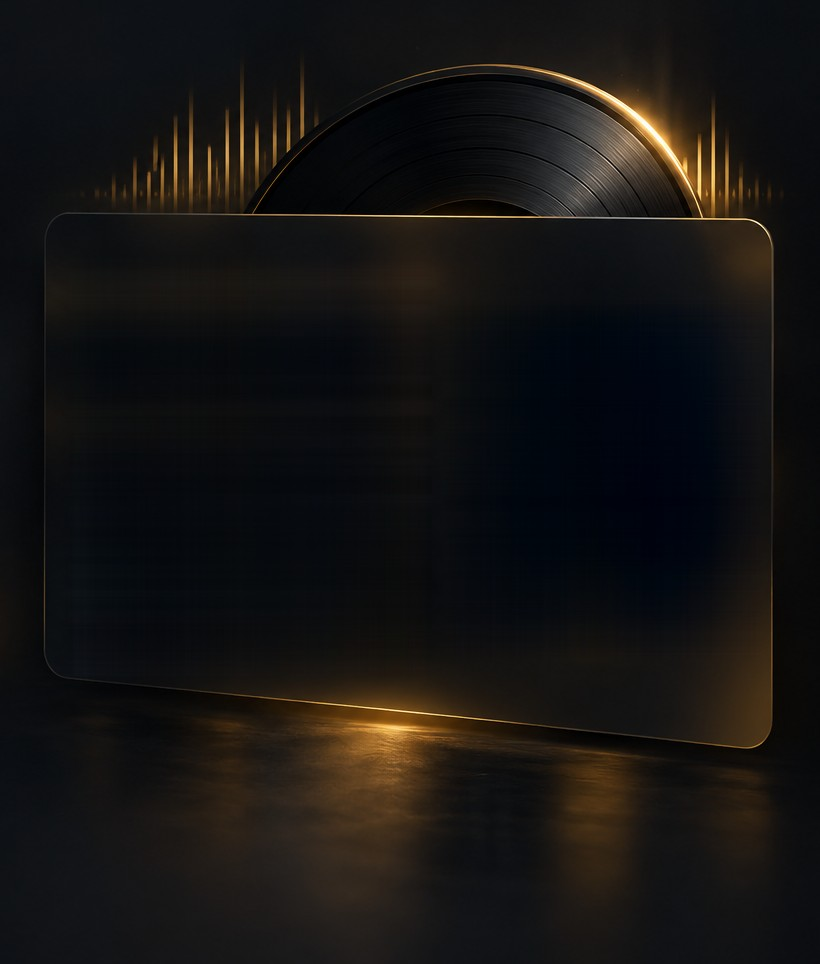
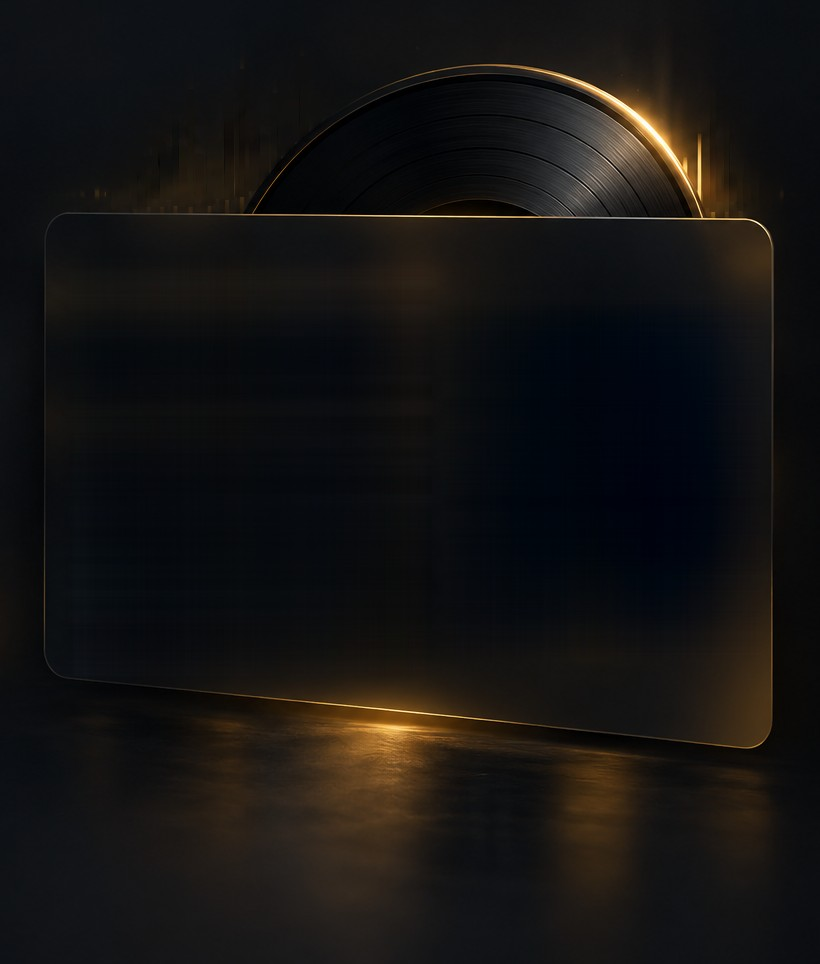
Homepage Soundtrack: the song starts, and its gold is the brand's
Ed: "Create a beautiful and elegant animation for The Soundtrack section. Make sure
you're using Maketzo brand colors. The yellow is off brand."

The equaliser is lifted out of Ed's graphic onto its own layer (eq.png, cut by
tools/site-preview/make-stage-06.js, record and rim masked out) and added back with
plus-lighter, so at rest the scene matches the graphic (mean difference 0.5 of 255 against prod). Once per
visit, when the player is half on screen: the bars rise out from the record on the
beat while the record's hot edge glows with them, then the play button's ring and
the cue's note invite the press. While the song really plays the bars dance and the
edge breathes; pause and they rest. Nothing is hidden at any point. Reduce motion
keeps the clock: the edge glows, the ring lights in place, nothing moves. Phones
show the ring only (no backdrop there). Compositor only: dancing adds nothing
measurable over the page's idle.

Gold: MUSIC. and the cue's song title take the title gradient (the .section-title em
rule list), the tag line and player eyebrow gold-400, marks and the progress bar
gold-500, the play button the brand button gradient; the hand-picked #F0C850 glows
are brand gold-500.

Changed region(s): [[0.122, 0.0934, 0.3963, 0.2178], [0.8537, 0.1245, 0.9451, 0.2178]]

diff --git a/index.html b/index.html
@@ -586,6 +586,8 @@ body:has(.sticky-bar.visible) { padding-bottom: 80px; }
   font-weight: 400;
 }
 .section-title em,
+.sp-title em,
+.sp-cue em,
 .wyg-w,
 .trp-run--if .trp-v {
   font-style: normal;
@@ -2404,21 +2406,20 @@ body.hero-loaded .hero-proof    { opacity: 1; transform: translateY(0); transiti
 }
 /* the soundtrack (index section 06), built to Ed's graphic (tools/site-preview/mock-section-06.png): copy at left;
    at right a glass player slab in perspective, a satin vinyl record and two equaliser groups behind it, a glossy floor
-   under it. The bars dance only while the music plays. */
+   under it. */
 .section.section-dark.sp-section { overflow: hidden; background: #0e1012; }
 .sp-inner { position: relative; max-width: 1536px; padding: 0 0 0 min(5.2vw, 80px); display: grid; grid-template-columns: minmax(0, 630fr) minmax(0, 826fr); gap: 0; align-items: center; }
 .sp-copy { padding-right: 24px; }
 .sp-inner > .section-eyebrow { grid-column: 1 / -1; }
 .sp-copy { min-width: 0; }
 .sp-title { margin: 0 0 30px; font-family: var(--mk-font-display); font-weight: 400; font-size: clamp(2.6rem, 5.3vw, 5.2rem); line-height: .95; letter-spacing: var(--mk-track-display); text-transform: uppercase; color: var(--mk-text-primary); }
-.sp-title em { font-style: normal; color: var(--mk-gold-300); text-shadow: 0 0 28px rgba(240,200,80,.25); }
 .sp-lede { margin: 0 0 24px; font-size: clamp(1.15rem, 1.75vw, 1.65rem); line-height: 1.4; color: var(--mk-text-primary); }
 .sp-body { margin: 0 0 18px; font-size: clamp(1rem, 1.3vw, 1.25rem); line-height: 1.6; color: var(--mk-text-secondary); }
-.sp-cue { display: flex; align-items: center; gap: 26px; margin: 30px 0; padding: 22px 28px; border-radius: 16px; border: 1px solid rgba(240,200,80,.35); border-left: 3px solid var(--mk-gold-300); background: linear-gradient(90deg, rgba(212,175,55,.12), rgba(212,175,55,.02) 70%); box-shadow: 0 0 24px rgba(240,200,80,.08); }
-.sp-cue svg { flex: none; width: 36px; height: 36px; fill: none; stroke: var(--mk-gold-300); stroke-width: 1.8; stroke-linecap: round; stroke-linejoin: round; filter: drop-shadow(0 0 8px rgba(240,200,80,.35)); }
+.sp-cue { display: flex; align-items: center; gap: 26px; margin: 30px 0; padding: 22px 28px; border-radius: 16px; border: 1px solid rgba(212,175,55,.35); border-left: 3px solid var(--mk-gold-500); background: linear-gradient(90deg, rgba(212,175,55,.12), rgba(212,175,55,.02) 70%); box-shadow: 0 0 24px rgba(212,175,55,.08); }
+.sp-cue svg { flex: none; width: 36px; height: 36px; fill: none; stroke: var(--mk-gold-500); stroke-width: 1.8; stroke-linecap: round; stroke-linejoin: round; filter: drop-shadow(0 0 8px rgba(212,175,55,.35)); }
 .sp-cue p { margin: 0; font-size: clamp(1rem, 1.25vw, 1.2rem); line-height: 1.55; color: var(--mk-text-primary); }
-.sp-cue em { font-style: normal; font-weight: 600; color: var(--mk-gold-300); }
-.sp-tag { margin: 34px 0 0; padding-top: 30px; border-top: 1px solid rgba(212,175,55,.3); font-family: var(--mk-font-mono); font-size: 14px; letter-spacing: .26em; color: var(--mk-gold-300); }
+.sp-cue em { font-weight: 600; }
+.sp-tag { margin: 34px 0 0; padding-top: 30px; border-top: 1px solid rgba(212,175,55,.3); font-family: var(--mk-font-mono); font-size: 14px; letter-spacing: .26em; color: var(--mk-gold-400); }
 /* the player: the shared root (play, seek, time, analytics), its own frame removed */
 .mk-audio-player.sp-player { position: relative; padding: 0; border-radius: 0; background: none; box-shadow: none; }
 .sp-player .sp-list { display: none; }
@@ -2429,35 +2430,72 @@ body.hero-loaded .hero-proof    { opacity: 1; transform: translateY(0); transiti
   -webkit-mask-image: linear-gradient(90deg, transparent, #000 7%, #000 94%, transparent), linear-gradient(180deg, transparent, #000 5%, #000 90%, transparent); -webkit-mask-composite: source-in;
   mask-image: linear-gradient(90deg, transparent, #000 7%, #000 94%, transparent), linear-gradient(180deg, transparent, #000 5%, #000 90%, transparent); mask-composite: intersect; }
 .sp-card { position: absolute; left: 0; top: 0; width: 727px; height: 466px; transform-origin: 0 0; transform: matrix3d(0.87480763, -0.02706622, 0, -0.00016128, -0.00227719, 0.99799714, 0, -0.00000295, 0, 0, 1, 0, 45.5, 213, 0, 1); }
-.sp-art { position: absolute; left: 33px; top: 51px; width: 368px; height: 364px; border-radius: 14px; overflow: hidden; border: 1px solid rgba(240,200,80,.32); box-shadow: 0 0 0 1px rgba(0,0,0,.55), 0 0 18px rgba(240,200,80,.12); }
+.sp-art { position: absolute; left: 33px; top: 51px; width: 368px; height: 364px; border-radius: 14px; overflow: hidden; border: 1px solid rgba(212,175,55,.32); box-shadow: 0 0 0 1px rgba(0,0,0,.55), 0 0 18px rgba(212,175,55,.12); }
 .sp-art img { display: block; width: 100%; height: 100%; object-fit: cover; transition: transform var(--mk-dur-snap) var(--mk-ease-out), filter var(--mk-dur-snap); }
 .sp-art { display: block; transition: border-color var(--mk-dur-snap), box-shadow var(--mk-dur-snap); }
-.sp-art:hover { border-color: rgba(240,200,80,.7); box-shadow: 0 0 0 1px rgba(0,0,0,.55), 0 0 26px rgba(240,200,80,.35); }
+.sp-art:hover { border-color: rgba(212,175,55,.7); box-shadow: 0 0 0 1px rgba(0,0,0,.55), 0 0 26px rgba(212,175,55,.35); }
 .sp-art:hover img { transform: scale(1.03); filter: brightness(1.08); }
 .sp-art:focus-visible { outline: 2px solid var(--mk-brand); outline-offset: 3px; }
 .sp-main { position: absolute; left: 439px; top: 90px; width: 258px; }
-.sp-player .sp-k { margin: 0 0 18px; white-space: nowrap; font-size: 12px; letter-spacing: .16em; color: var(--mk-gold-300); }
+.sp-player .sp-k { margin: 0 0 18px; white-space: nowrap; font-size: 12px; letter-spacing: .16em; color: var(--mk-gold-400); }
 .sp-player .sp-name { max-width: 195px; margin: 0; font-family: var(--mk-font-sans); font-weight: 600; font-size: 29px; line-height: 1.13; letter-spacing: -.015em; text-transform: none; color: var(--mk-text-primary); }
 .sp-sub { margin: 14px 0 0; white-space: nowrap; font-family: var(--mk-font-mono); font-size: 11.5px; letter-spacing: .12em; color: #8d8a84; }
 .sp-player .sp-bar { margin-top: 28px; height: 4px; border-radius: 4px; background: rgba(255,255,255,.16); cursor: pointer; }
-.sp-player .sp-bar .mk-audio-player__progress { position: relative; height: 100%; border-radius: 4px; background: var(--mk-gold-300); box-shadow: 0 0 10px rgba(240,200,80,.5); }
-.sp-player .sp-bar .mk-audio-player__progress::after { content: ""; position: absolute; right: -6px; top: 50%; width: 12px; height: 12px; margin-top: -6px; border-radius: 50%; background: var(--mk-gold-300); box-shadow: 0 0 10px rgba(240,200,80,.7); }
+.sp-player .sp-bar .mk-audio-player__progress { position: relative; height: 100%; border-radius: 4px; background: var(--mk-gold-500); box-shadow: 0 0 10px rgba(212,175,55,.5); }
+.sp-player .sp-bar .mk-audio-player__progress::after { content: ""; position: absolute; right: -6px; top: 50%; width: 12px; height: 12px; margin-top: -6px; border-radius: 50%; background: var(--mk-gold-500); box-shadow: 0 0 10px rgba(212,175,55,.7); }
 .sp-time { display: flex; justify-content: space-between; margin-top: 12px; font-family: var(--mk-font-sans); font-size: 13px; color: #9a968f; }
 .sp-controls { display: flex; align-items: center; justify-content: center; gap: 30px; margin-top: 10px; }
-.sp-player .mk-audio-player__play { width: 78px; height: 78px; background: radial-gradient(circle at 40% 35%, #f8dc84, var(--mk-gold-300) 60%, #c9a43c); color: #0b0b0b; box-shadow: 0 0 30px rgba(240,200,80,.45), inset 0 1px 0 rgba(255,255,255,.35); }
+.sp-player .mk-audio-player__play { width: 78px; height: 78px; background: var(--mk-gold-gradient); color: #0b0b0b; box-shadow: 0 0 30px rgba(212,175,55,.35), inset 0 1px 0 rgba(255,255,255,.35); }
 .sp-player .mk-audio-player__play svg { width: 28px; height: 28px; }
 .sp-skip { display: grid; place-items: center; width: 40px; height: 40px; border: 0; border-radius: 50%; background: none; color: var(--mk-text-primary); cursor: pointer; transition: color var(--mk-dur-snap), transform var(--mk-dur-snap) var(--mk-ease-out); }
 .sp-skip:hover { color: var(--mk-gold-300); transform: scale(1.1); }
 .sp-skip:focus-visible { outline: 2px solid var(--mk-brand); outline-offset: 3px; }
 .sp-skip svg { width: 22px; height: 22px; fill: currentColor; }
+/* The song starts (Ed, 2026-10-17: "a beautiful and elegant animation for The Soundtrack section"). The equaliser is
+   lifted out of the graphic onto its own layer (eq.png, cut by tools/site-preview/make-stage-06.js) and added back with
+   plus-lighter, so at rest the scene is the graphic exactly. Once per visit the bars rise out from the record on the
+   beat while the record's hot edge glows with them, then the play button and the cue's note invite the press. While
+   the song really plays, the bars dance and the edge breathes; pause and they rest. Nothing is ever hidden. */
+.sp-eq { position: absolute; left: 100px; top: 40px; width: 700px; height: 175px; background: url("assets/soundtrack/eq.png") 0 0 / 700px 175px no-repeat; mix-blend-mode: plus-lighter; pointer-events: none; }
+.sp-eq.is-split { background: none; }
+.sp-eq i { position: absolute; left: calc(var(--l) * 1px); top: calc(var(--t) * 1px); width: calc(var(--w) * 1px); height: calc(var(--h) * 1px); background: url("assets/soundtrack/eq.png") calc(var(--l) * -1px) calc(var(--t) * -1px) / 700px 175px no-repeat; transform-origin: 50% 100%; }
+.sp-glow { position: absolute; left: 495px; top: 10px; width: 290px; height: 210px; border-radius: 50%; background: radial-gradient(closest-side, rgba(229,197,114,.5), rgba(212,175,55,.15) 55%, rgba(212,175,55,0)); mix-blend-mode: plus-lighter; opacity: 0; pointer-events: none; }
+.sp-player .mk-audio-player__play { position: relative; }
+.sp-player .mk-audio-player__play::after { content: ""; position: absolute; inset: 0; border-radius: 50%; border: 2px solid rgba(229,197,114,.85); opacity: 0; pointer-events: none; }
+.sp-go .sp-eq i { animation: spEqA 3.2s ease-in-out calc(var(--d) * 45ms) both; }
+.sp-go .sp-eq i:nth-child(3n+2) { animation-name: spEqB; }
+.sp-go .sp-eq i:nth-child(3n) { animation-name: spEqC; }
+.sp-go .sp-glow { animation: spGlowIn 3.6s ease-in-out both; }
+.sp-go .sp-player .mk-audio-player__play::after { animation: spInvite 1.1s cubic-bezier(.2, .7, .3, 1) 3.3s 2; }
+.sp-go .sp-cue svg { animation: spNote 1.1s ease-in-out 3.3s 2; }
+.sp-section .sp-player.is-playing .sp-eq i { animation: spEqPlay .5s ease-in-out calc(var(--d) * -97ms) infinite alternate; }
+.sp-section .sp-player.is-playing .sp-eq i:nth-child(3n+2) { animation-duration: .38s; }
+.sp-section .sp-player.is-playing .sp-eq i:nth-child(3n) { animation-duration: .62s; }
+.sp-section .sp-player.is-playing .sp-glow { animation: spGlowPlay 1.25s ease-in-out infinite alternate; }
+@keyframes spEqA { 0%, 100% { transform: none; } 14% { transform: scaleY(1.32); } 28% { transform: scaleY(.72); } 42% { transform: scaleY(1.22); } 56% { transform: scaleY(.84); } 70% { transform: scaleY(1.1); } 84% { transform: scaleY(.95); } }
+@keyframes spEqB { 0%, 100% { transform: none; } 14% { transform: scaleY(1.18); } 28% { transform: scaleY(.8); } 42% { transform: scaleY(1.34); } 56% { transform: scaleY(.88); } 70% { transform: scaleY(1.06); } 84% { transform: scaleY(.97); } }
+@keyframes spEqC { 0%, 100% { transform: none; } 14% { transform: scaleY(1.26); } 28% { transform: scaleY(.86); } 42% { transform: scaleY(1.14); } 56% { transform: scaleY(.78); } 70% { transform: scaleY(1.14); } 84% { transform: scaleY(.94); } }
+@keyframes spEqPlay { from { transform: scaleY(.62); } to { transform: scaleY(1.28); } }
+@keyframes spGlowIn { 0%, 100% { opacity: 0; } 14% { opacity: .6; } 28% { opacity: .22; } 42% { opacity: .55; } 56% { opacity: .25; } 70% { opacity: .4; } }
+@keyframes spGlowPlay { from { opacity: .12; } to { opacity: .42; } }
+@keyframes spInvite { from { opacity: .9; transform: none; } to { opacity: 0; transform: scale(1.75); } }
+@keyframes spNote { 0%, 100% { transform: none; } 30% { transform: translateY(-3px) rotate(-6deg) scale(1.08); } 60% { transform: rotate(3deg); } }
+/* reduce motion: the same clock, nothing moves; the edge still glows on the beat and the button's ring lights in place */
+@media (prefers-reduced-motion: reduce) {
+  .sp-go .sp-eq i, .sp-section .sp-player.is-playing .sp-eq i, .sp-go .sp-cue svg, .sp-section .sp-player.is-playing .sp-glow { animation: none; }
+  .sp-player .mk-audio-player__play::after { transform: scale(1.14); }
+  .sp-go .sp-player .mk-audio-player__play::after { animation-name: spInviteStill; animation-timing-function: ease-in-out; }
+}
+@keyframes spInviteStill { 0%, 100% { opacity: 0; } 45% { opacity: .85; } }
 /* phones: the card stands upright on its own, no backdrop */
 @media (max-width: 900px) {
+  .sp-eq, .sp-glow { display: none; }
   .sp-inner { grid-template-columns: 1fr; gap: 16px; padding: 0 24px; }
   .sp-copy { padding-right: 0; }
   .sp-scene-box { aspect-ratio: auto; margin-top: 28px; }
   .sp-scene { position: relative; width: auto; height: auto; transform: none; }
   .sp-scene::before { display: none; }
-  .sp-card { position: relative; width: auto; height: auto; max-width: 440px; margin: 0 auto; transform: none; display: grid; gap: 22px; padding: 24px; border-radius: 22px; background: linear-gradient(165deg, #23211d, #121213 45%, #0d0d0e); border: 1px solid rgba(240,200,80,.3); box-shadow: inset 0 -1px 0 rgba(255,210,110,.45), 0 20px 50px rgba(0,0,0,.6), 0 0 40px rgba(240,200,80,.1); }
+  .sp-card { position: relative; width: auto; height: auto; max-width: 440px; margin: 0 auto; transform: none; display: grid; gap: 22px; padding: 24px; border-radius: 22px; background: linear-gradient(165deg, #23211d, #121213 45%, #0d0d0e); border: 1px solid rgba(212,175,55,.3); box-shadow: inset 0 -1px 0 rgba(255,210,110,.45), 0 20px 50px rgba(0,0,0,.6), 0 0 40px rgba(212,175,55,.1); }
   .sp-art { position: relative; left: auto; top: auto; width: 100%; height: auto; aspect-ratio: 1; }
   .sp-main { position: relative; left: auto; top: auto; width: auto; }
 }
@@ -3216,6 +3254,8 @@ document.addEventListener("DOMContentLoaded", function() {
       </audio>
       <div class="sp-scene-box">
         <div class="sp-scene">
+      <span class="sp-eq" aria-hidden="true"></span>
+      <span class="sp-glow" aria-hidden="true"></span>
       <div class="sp-card">
         <a class="sp-art" href="soundtrack.html" data-cta-source="soundtrack" data-cta-target="soundtrack-page" aria-label="Earn the Right, the MAKETZO album: every song on the soundtrack page"><img src="assets/album-cover.jpg" alt="" width="400" height="400" loading="lazy" decoding="async"></a>
         <div class="sp-main">
@@ -3255,6 +3295,32 @@ document.addEventListener("DOMContentLoaded", function() {
   var box = document.querySelector('.sp-scene-box');
   if (!box || !window.ResizeObserver) return;
   new ResizeObserver(function () { box.style.setProperty('--sp-k', String(box.clientWidth / 820)); }).observe(box);
+})();
+/* section 06, the song starts: each bar of the equaliser layer becomes its own strip so it can move, then the sequence
+   (CSS under .sp-go) plays once, when the player is on screen. Strips are [group, left, right, top, bottom] in eq.png,
+   printed by tools/site-preview/make-stage-06.js; group 0 sits left of the record, group 1 right of it. */
+(function () {
+  var sec = document.getElementById('soundtrack'), eq = sec && sec.querySelector('.sp-eq');
+  if (!eq || !('IntersectionObserver' in window)) return;
+  var BARS = [[0,6,19,120,167],[0,19,29,129,163],[0,29,41,102,169],[0,41,52,116,167],[0,52,58,82,159],[0,58,66,102,167],[0,66,72,107,160],[0,72,79,62,166],[0,79,87,107,163],[0,87,95,49,167],[0,95,104,114,163],[0,104,113,90,166],[0,113,122,104,159],[0,122,134,54,160],[0,135,149,29,157],[0,149,160,67,151],[0,160,169,95,142],[0,169,181,53,131],[0,181,195,54,116],[0,195,209,16,102],[0,209,222,54,90],[1,603,609,129,168],[1,609,616,53,172],[1,616,623,116,162],[1,623,630,84,172],[1,630,637,132,162],[1,637,645,110,171],[1,645,653,133,162],[1,653,662,122,169],[1,662,676,128,167]];
+  var left = BARS.filter(function (b) { return b[0] === 0; }).length;
+  BARS.forEach(function (b, k) {
+    var i = document.createElement('i');
+    // the wave runs out from the record: the left group counts leftward, the right group rightward
+    var d = b[0] === 0 ? left - 1 - k : k - left;
+    [['--l', b[1]], ['--w', b[2] - b[1]], ['--t', b[3]], ['--h', b[4] - b[3]], ['--d', d]].forEach(function (p) { i.style.setProperty(p[0], String(p[1])); });
+    eq.appendChild(i);
+  });
+  eq.classList.add('is-split');
+  var player = sec.querySelector('.sp-player .sp-card');
+  var o = new IntersectionObserver(function (es) {
+    var e = es[0];
+    if (!(e.intersectionRatio >= 0.5 || (!e.isIntersecting && e.boundingClientRect.top < 0))) return;
+    o.disconnect(); sec.classList.add('sp-go');
+    // done: taken off so a pause later returns the bars to rest instead of replaying the start
+    setTimeout(function () { sec.classList.remove('sp-go'); }, 5800);
+  }, { threshold: [0, 0.5] });
+  o.observe(player);
 })();
 </script>
 
